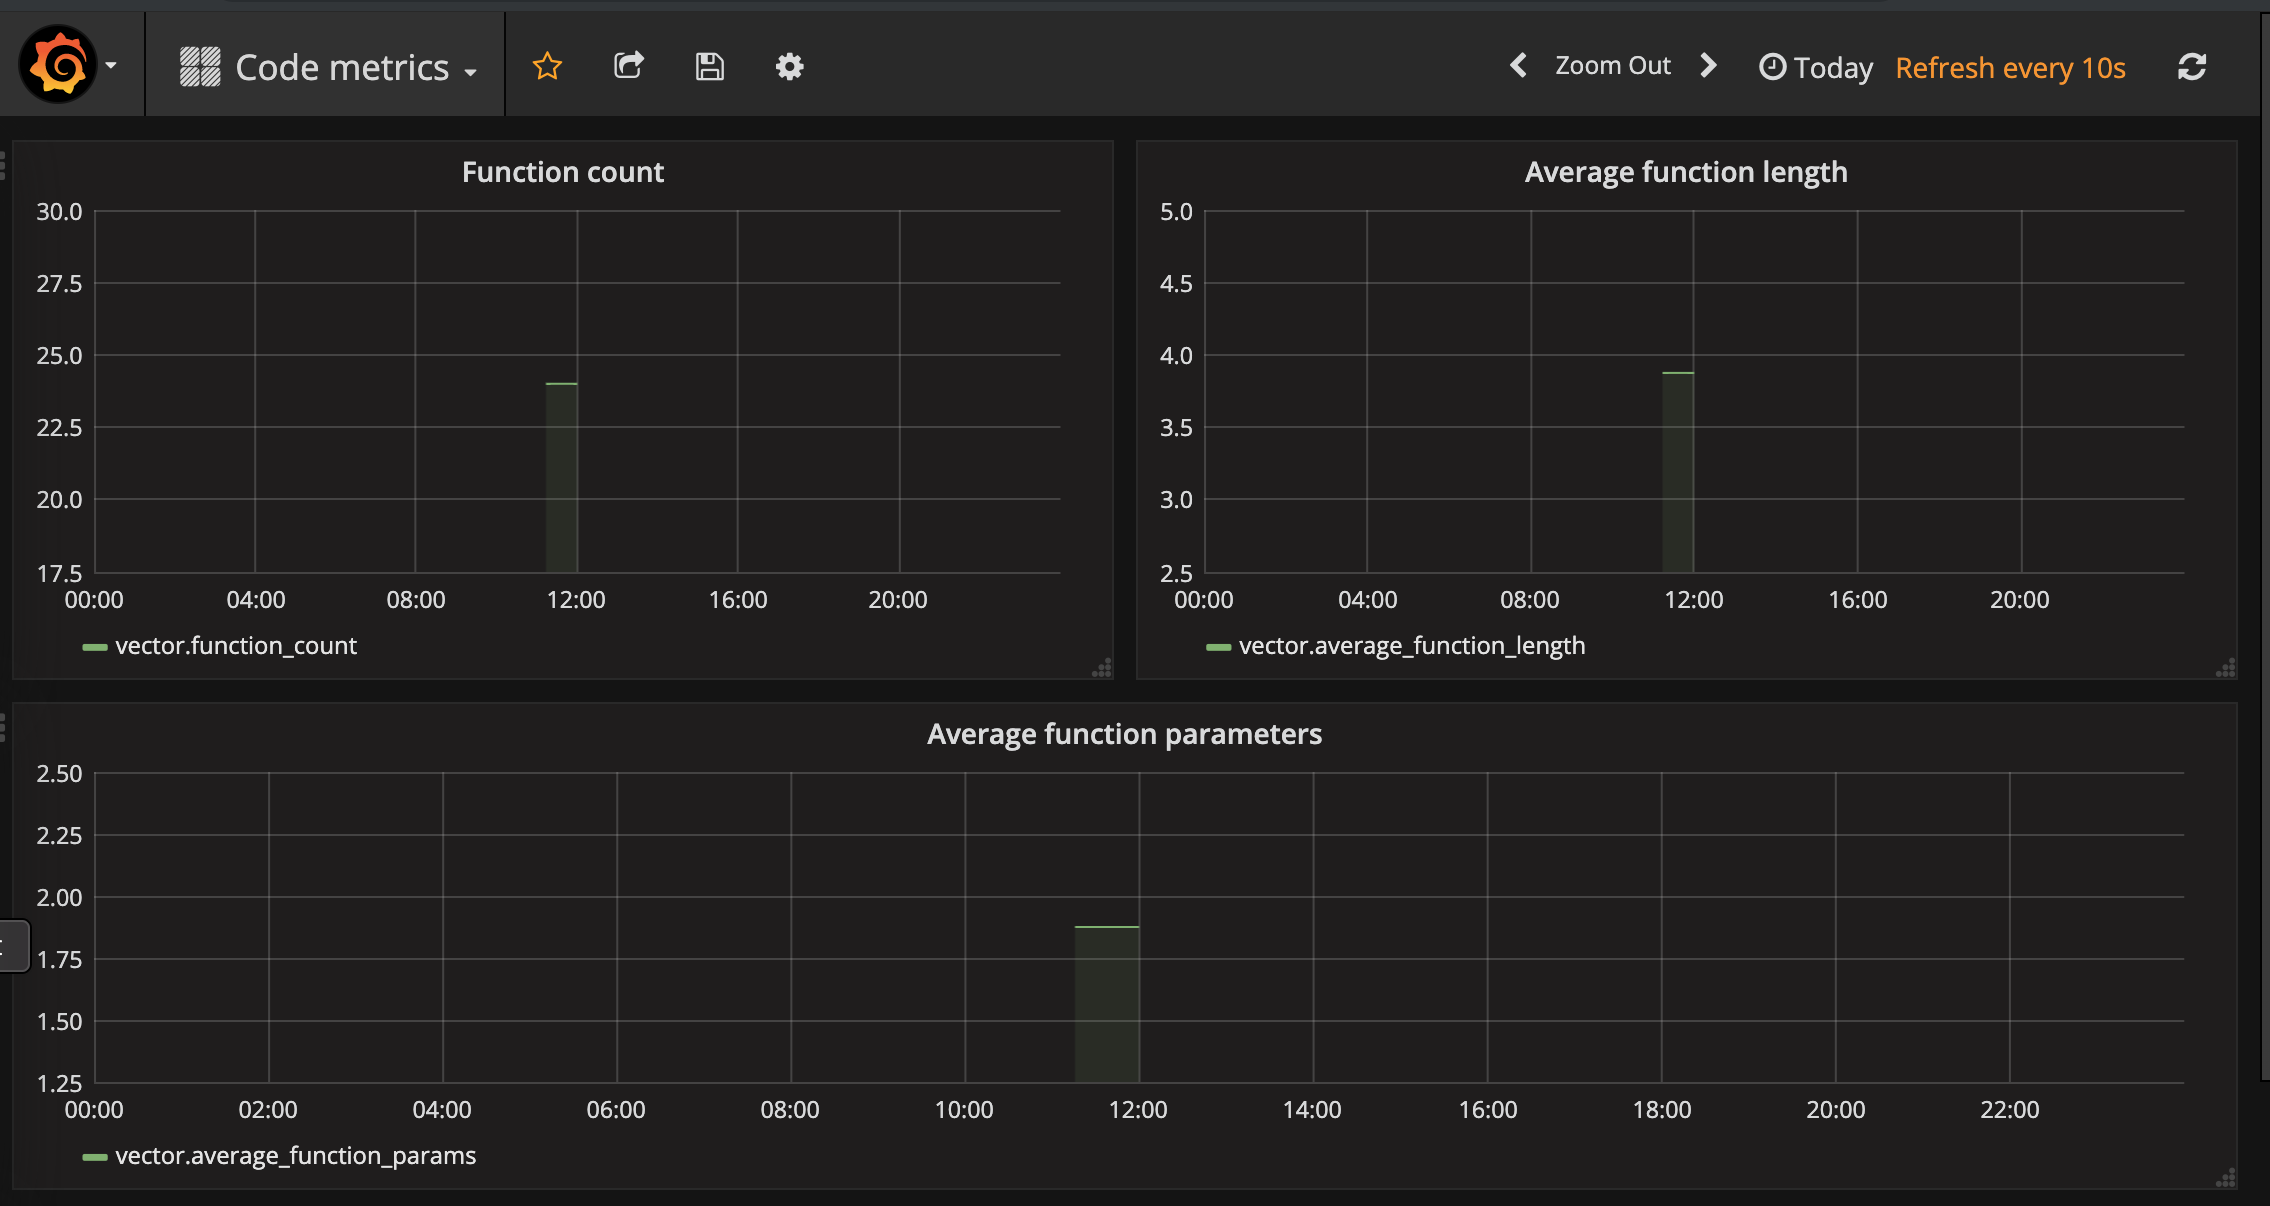
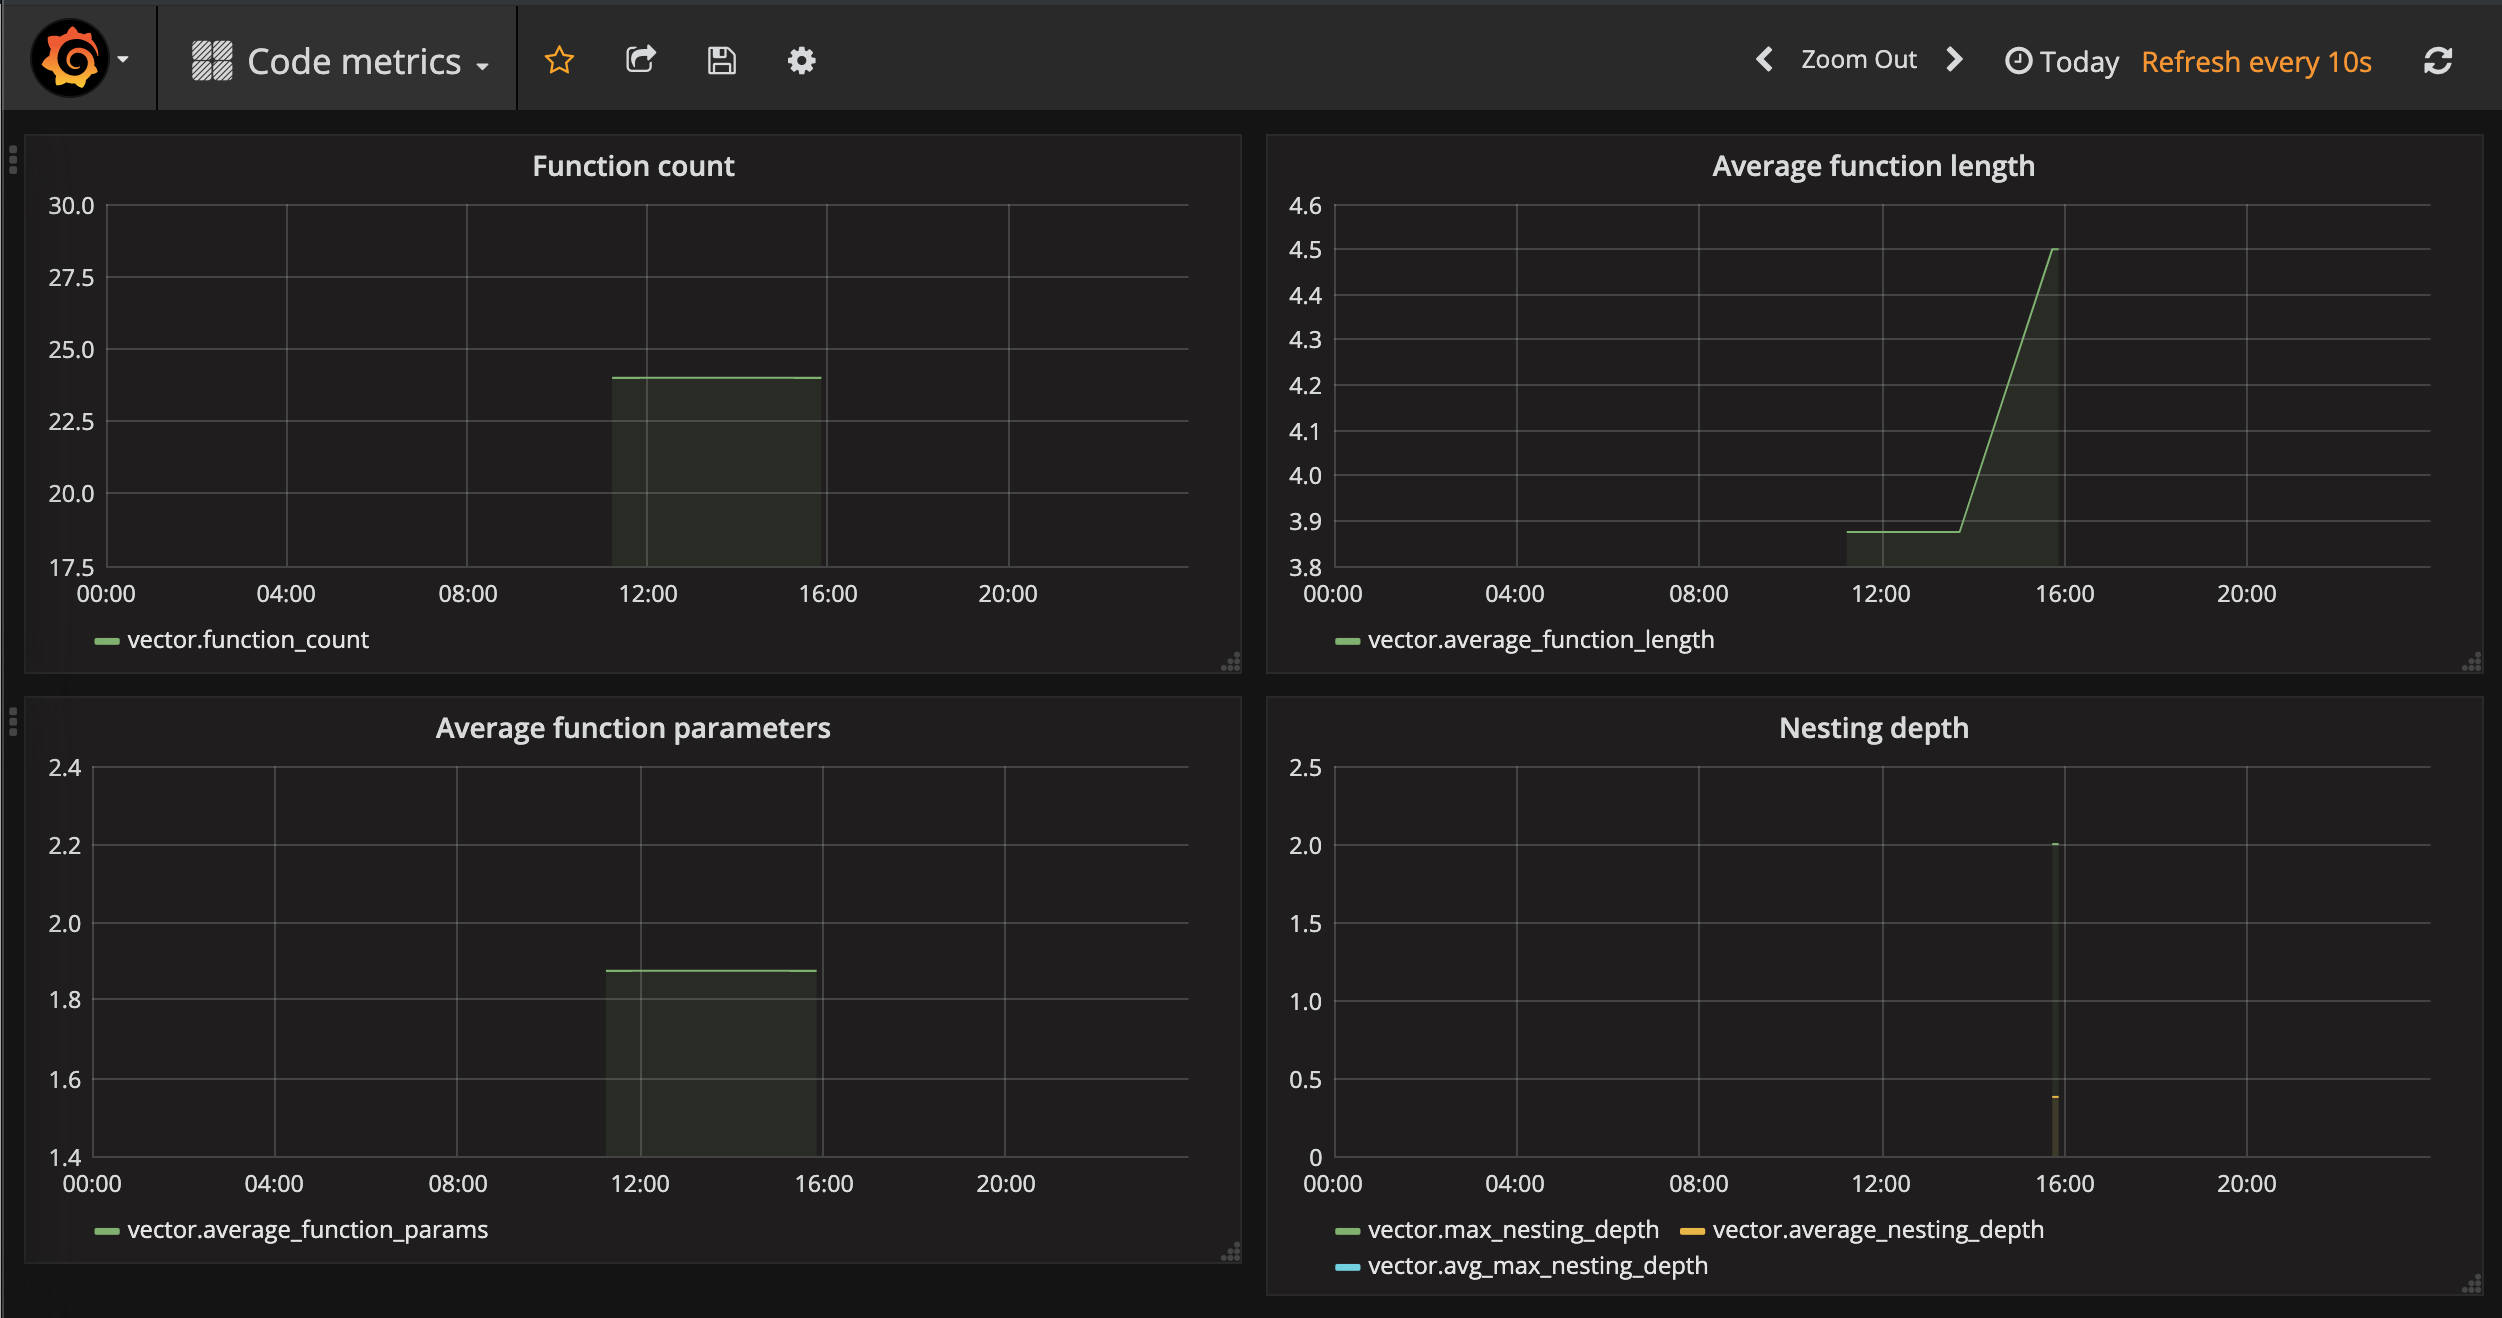
Add support for nesting depth calculation, fix function length calculation

diff --git a/code_stats.py b/code_stats.py
@@ -8,6 +8,69 @@ import socket
 CARBON_SERVER = '127.0.0.1'
 CARBON_PORT = 2003
 
+def last_line(node):
+    children = node.children()
+    if not children:
+        return node.coord.line
+    else:
+        last_child = last_line(children[-1][1])
+        if type(node) == c_ast.Compound:
+            return last_child + 1 #Closing curly
+        else:
+            return last_child 
+
+def block_length(node):
+    return last_line(node) - node.coord.line
+
+def mean(x):
+    return sum(x) / max(1, len(x))
+
+class NestingDepthVisitor(c_ast.NodeVisitor):
+    def __init__(self, fname):
+        self.fname = fname
+        self.depth = 0
+        self.area = 0
+        self.max_depth = 0
+        self.max_depths = []
+        self.total_flen = 0
+    def visit_FuncDef(self, node):
+        if node.coord.file != self.fname:
+            #Do not count included functions
+            return
+        self.total_flen += block_length(node.body)
+        self.max_depth = 0
+        self.generic_visit(node.body)
+        self.max_depths.append(self.max_depth)
+    def visit_If(self, node):
+        self.recursion(node)
+    def visit_For(self, node):
+        self.recursion(node)
+    def visit_While(self, node):
+        self.recursion(node)
+    def visit_Do(self, node):
+        self.recursion(node)
+    def visit_Switch(self, node):
+        self.recursion(node)
+    def visit_Case(self, node):
+        self.generic_visit(node)
+    def visit_Default(self, node):
+        self.generic_visit(node)
+    def recursion(self, node):
+        self.depth += 1
+        self.max_depth = max(self.max_depth, self.depth)
+        self.generic_visit(node)
+        self.depth -= 1
+    def visit_Compound(self, node):
+        block_len = block_length(node)
+        self.generic_visit(node)
+        self.area += block_len
+    def stats(self):
+        return {
+            "max_nesting_depth": max(self.max_depths),
+            "avg_max_nesting_depth": mean(self.max_depths),
+            "average_nesting_depth": self.area / self.total_flen
+        }
+
 class FuncDefVisitor(c_ast.NodeVisitor):
     def __init__(self, fname):
         self.func_count = 0
@@ -25,12 +88,7 @@ class FuncDefVisitor(c_ast.NodeVisitor):
             return
         name = node.decl.name
         param_count = len(node.decl.type.args.params)
-        if node.body.block_items:
-            first_line = node.body.block_items[0].coord.line
-            last_line = node.body.block_items[-1].coord.line
-            self.report_func(name, last_line - first_line + 1, param_count)
-        else:
-            self.report_func(name, 0, param_count)
+        self.report_func(name, max(1, block_length(node.body) - 1), param_count)
     def stats(self):
         return {
             'function_count': self.func_count,
@@ -50,9 +108,13 @@ def send_to_carbon(prefix, stats):
 
 def show_func_lens(filename):
     ast = parse_file(filename, use_cpp=True, cpp_path='clang', cpp_args=['-E', '-Iutils/fake_libc_include', '--std=c11'])
-    v = FuncDefVisitor(filename)
-    v.visit(ast)
-    send_to_carbon('vector', v.stats())
+    fdv = FuncDefVisitor(filename)
+    fdv.visit(ast)
+    ndv = NestingDepthVisitor(filename)
+    ndv.visit(ast)
+    stats = {**fdv.stats(), **ndv.stats()}
+    print(stats)
+    send_to_carbon('vector', stats)
 
 show_func_lens("data/vector.c")
 

diff --git a/data/switch.c b/data/switch.c
@@ -1,0 +1,35 @@
+int f(void);
+void g(void);
+
+
+void simple_switch_test(void)
+{
+    switch(f() + f())
+    {
+        case 1:
+        case 2:
+        {
+            g();
+        }
+        break;
+        case 3:
+            g();
+        break;
+        case 4:
+        {
+            if(f() == 3)
+            {
+                if(f() == 4)
+                    g();
+            }
+            else
+            {
+                f();
+            }
+        }
+        break;
+        default:
+        f();
+        g();
+    }
+}
